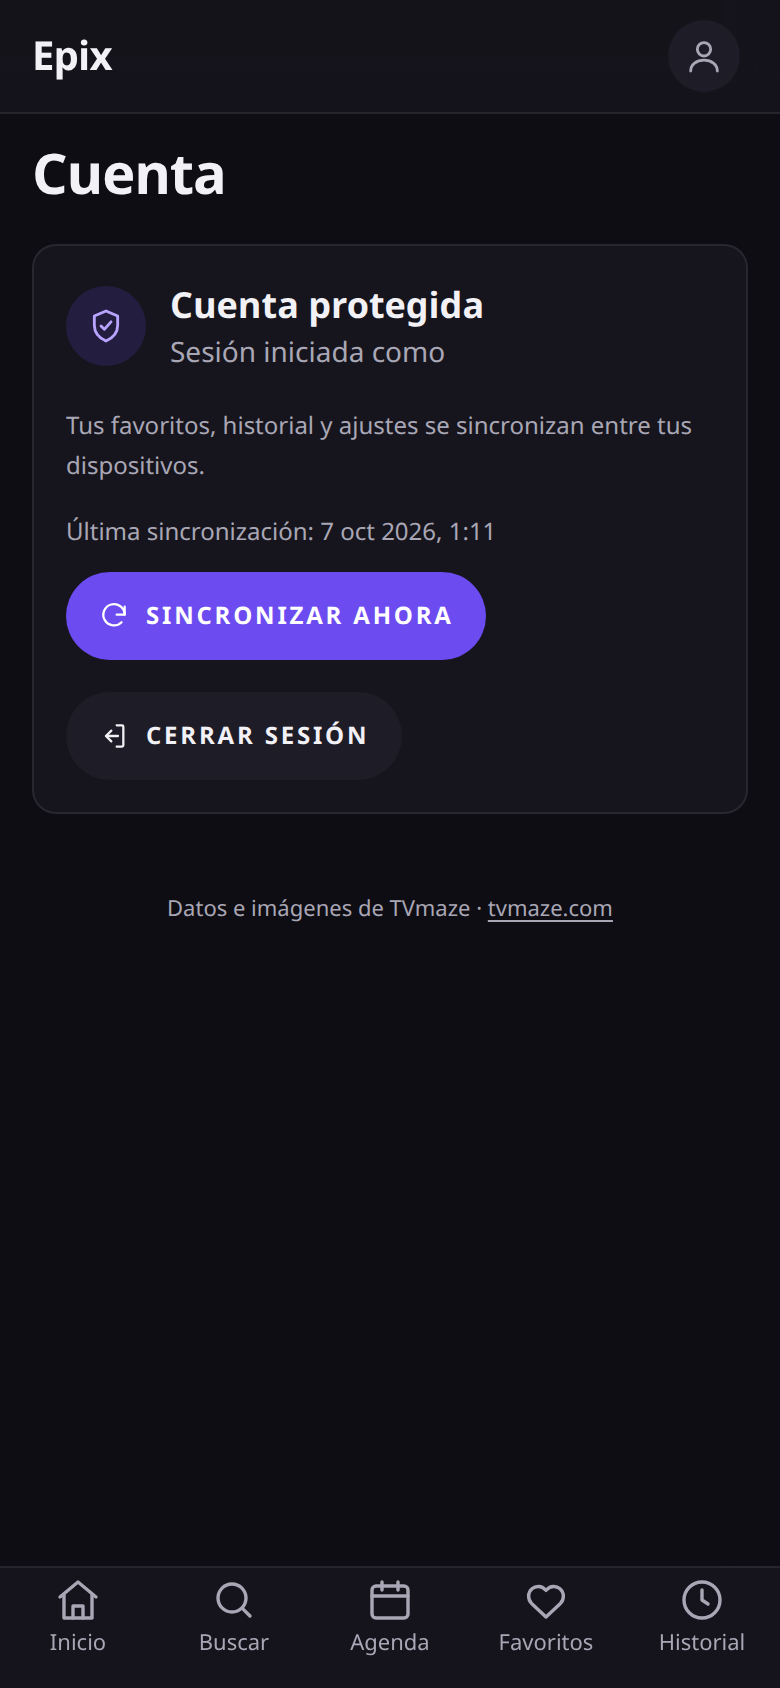
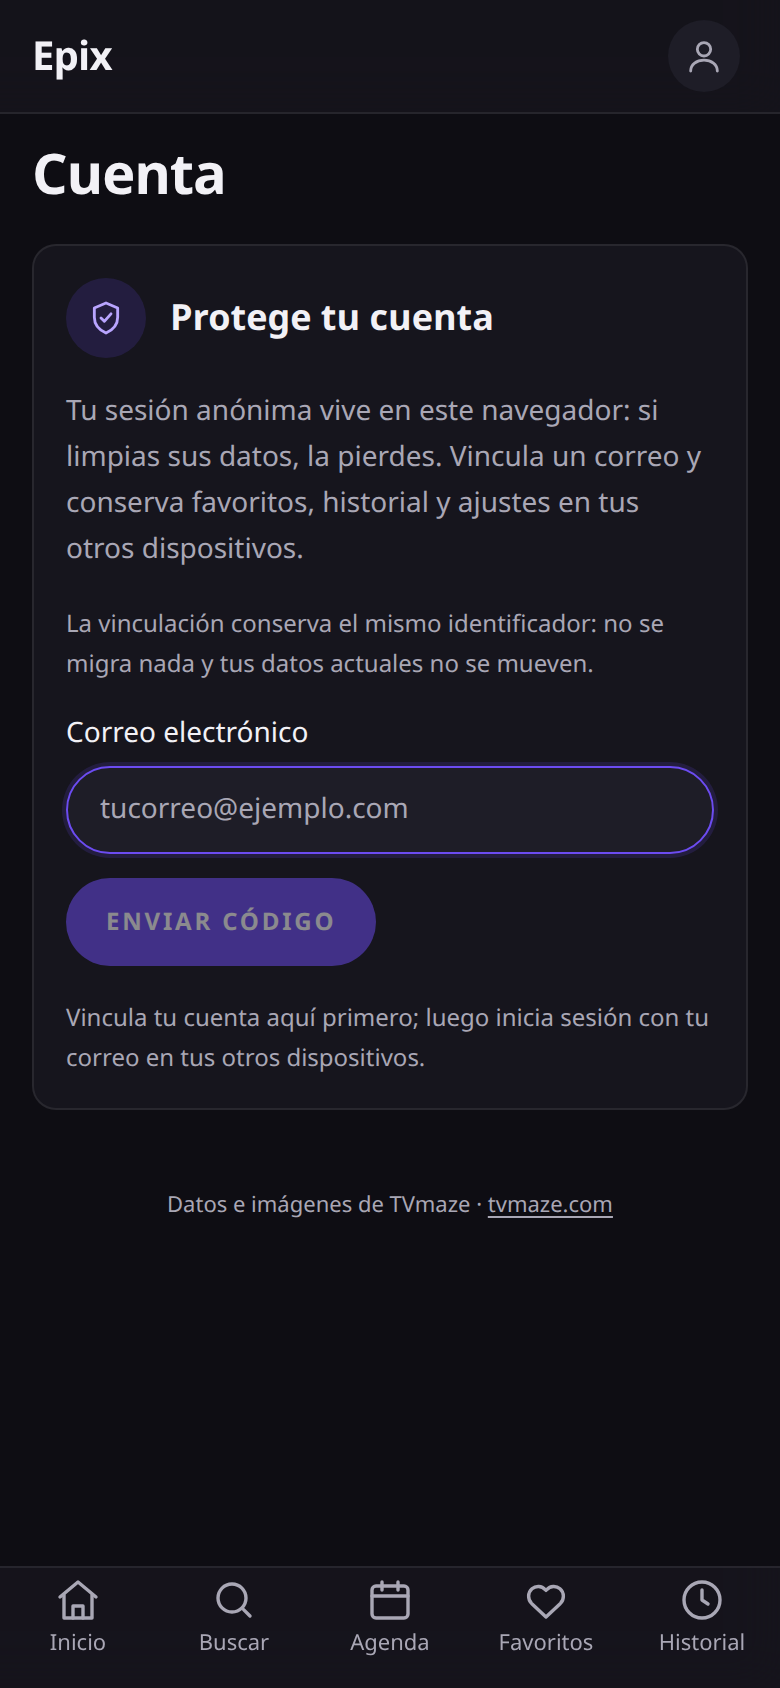
docs: evidencias de cuenta, guía SMTP y estado del Sprint 5.2

diff --git a/AGENTS.md b/AGENTS.md
@@ -81,9 +81,10 @@ pnpm test:e2e    # Playwright
 - [x] Fase 1 — Investigación + documentación Notion.
 - [x] Fase 2 — Scaffolding, arquitectura y diseño base (incremento 1: tokens, layout, navegación, componentes, PWA, tests).
 - [x] Fase 3 · Incrementos 2–7 — API TVmaze + caché, offline-first con sync, personalización con filtros, GPS, notificaciones y telemetría.
-- [x] Calidad — 266 pruebas unitarias + 12 E2E (Playwright, API mockeada); cobertura domain/application 99 %; Lighthouse producción 93/100/100; auditoría de seguridad sin hallazgos críticos.
+- [x] Calidad — 333 pruebas unitarias + 14 E2E (Playwright, API mockeada); cobertura domain/application 99 %; Lighthouse producción en el rango 86–93/100/100 (varianza de red); auditoría de seguridad sin hallazgos críticos.
 - [x] Sprint 5.0 (fundaciones) — ADRs (MADR), cobertura con umbrales, logger tipado, validación de entorno con Zod, CI ampliado (Dependabot, CodeQL, auditoría, artefacto de cobertura) y documentos de comunidad (LICENSE, CHANGELOG, CONTRIBUTING, SECURITY, CODE_OF_CONDUCT).
 - [x] Sprint 5.1 (rendimiento) — code splitting por ruta, shell estático de arranque (FCP 2.1 s → 1.0 s), hints LCP/CLS, «Mostrar más» en búsquedas largas y presupuesto `size-limit` en CI.
+- [x] Sprint 5.2 (cuentas reales) — OTP por correo, vinculación anónimo→permanente (mismo `uid`), Realtime en favoritos, sync multi-pestaña (Web Locks + BroadcastChannel) y pantalla «Cuenta» (ADR-0010). Para códigos reales: SMTP propio (el proveedor por defecto del plan free no permite editar plantillas).
 - [x] Despliegue — producción en [epix-xi.vercel.app](https://epix-xi.vercel.app) (Vercel; deep links, service worker y CSP verificados con navegador real).
 - [x] Nube — Supabase `epix-db` activo (migración + RLS + sesiones anónimas + env vars en Vercel); sincronización de favoritos y telemetría verificada en producción.
 - [ ] Pendiente — capturas en Android físico (`docs/entrega/guia-verificacion-movil.md`) y dominio propio (opcional).

diff --git a/docs/entrega/guia-supabase.md b/docs/entrega/guia-supabase.md
@@ -59,6 +59,23 @@ pnpm dev        # o pnpm build && pnpm preview
    crea su propia identidad anónima; para compartir datos entre dispositivos haría falta iniciar
    sesión con la misma cuenta — evolución futura documentada en `docs/modelo-datos.md`).
 
+## Cuentas reales (OTP por correo) — Sprint 5.2
+
+Estado actual: pantalla «Cuenta» activa, Realtime habilitado en `favorites` y `site_url` configurada.
+
+**Requisito para enviar códigos reales:** con el proveedor de correo por defecto del plan gratuito,
+Supabase **no permite editar plantillas ni subir el límite de envíos** (2/hora). Para producción:
+
+1. Crea una cuenta en un proveedor SMTP transaccional (p. ej. Resend: 3.000 correos/mes gratis).
+2. En Supabase: **Authentication → Emails → SMTP Settings** → host, puerto, usuario y clave del proveedor.
+3. Con SMTP propio podrás editar las plantillas **Magic Link** y **Change Email** para incluir
+   `{{ .Token }}` (el código de 6 dígitos que pide la app) y ajustar `rate_limit_email_sent`.
+4. Prueba completa: Perfil → Cuenta → «Protege tu cuenta» → código → verificar (mismo `uid`, sin migrar datos);
+   en otro dispositivo → «Inicia sesión» con el mismo correo → favoritos e historial llegan con el pull.
+
+> Nota: mientras no haya SMTP propio, el flujo de código no puede completarse (el correo por defecto
+> no muestra el código). Todo lo demás (vinculación visible, Realtime, sync) está operativo.
+
 ## Problemas comunes
 
 | Síntoma | Causa probable | Solución |

diff --git a/docs/evidencias/README.md b/docs/evidencias/README.md
@@ -23,6 +23,8 @@ Capturas generadas con Chromium real (Playwright) contra el build de producción
 | `12-produccion-inicio.png` | Producción real ([epix-xi.vercel.app](https://epix-xi.vercel.app)): inicio con SW activo |
 | `13-produccion-deeplink.png` | Deep link directo en producción (`/shows/169`) renderizando con datos reales de TVmaze |
 | `14-supabase-sincronizado.png` | Nube activa: favorito sincronizado a PostgreSQL y estado «Al día» en Perfil |
+| `15-cuenta.png` | Cuenta (Sprint 5.2): flujo «Protege tu cuenta» con vinculación anónimo→permanente |
+| `16-perfil.png` | Perfil con la sección «Cuenta» y «Datos y sincronización» |
 
 > La revisión visual de los dos diagramas (legibilidad en desktop y móvil) fue realizada sobre
 > estas capturas: tipografía legible, sin recortes ni cruces problemáticos; no requirieron reparación.

diff --git a/CHANGELOG.md b/CHANGELOG.md
@@ -13,6 +13,16 @@ y el versionado [SemVer](https://semver.org/lang/es/).
 - CI ampliado: artefacto de cobertura, caché de Playwright, `pnpm audit`,
   Dependabot y CodeQL.
 - Documentos de comunidad: CONTRIBUTING, SECURITY y CODE_OF_CONDUCT.
+- Cuentas reales: OTP por correo, vinculación anónimo→permanente (mismo `uid`),
+  sincronización multi-dispositivo con Realtime y sync multi-pestaña
+  (Web Locks + BroadcastChannel); pantalla «Cuenta» (ADR-0010).
+- Rendimiento: code splitting por ruta, shell estático de arranque, hints de
+  imagen LCP/CLS y presupuesto de tamaño (`size-limit`) en CI.
+
+### Fixed
+- El correo vacío (`''`) de los usuarios anónimos de Supabase se normaliza a
+  `null`: la pantalla «Cuenta» muestra el flujo de vinculación en vez de un
+  estado «vinculado» sin correo.
 
 ## [1.0.0] - 2026-10-06
 
